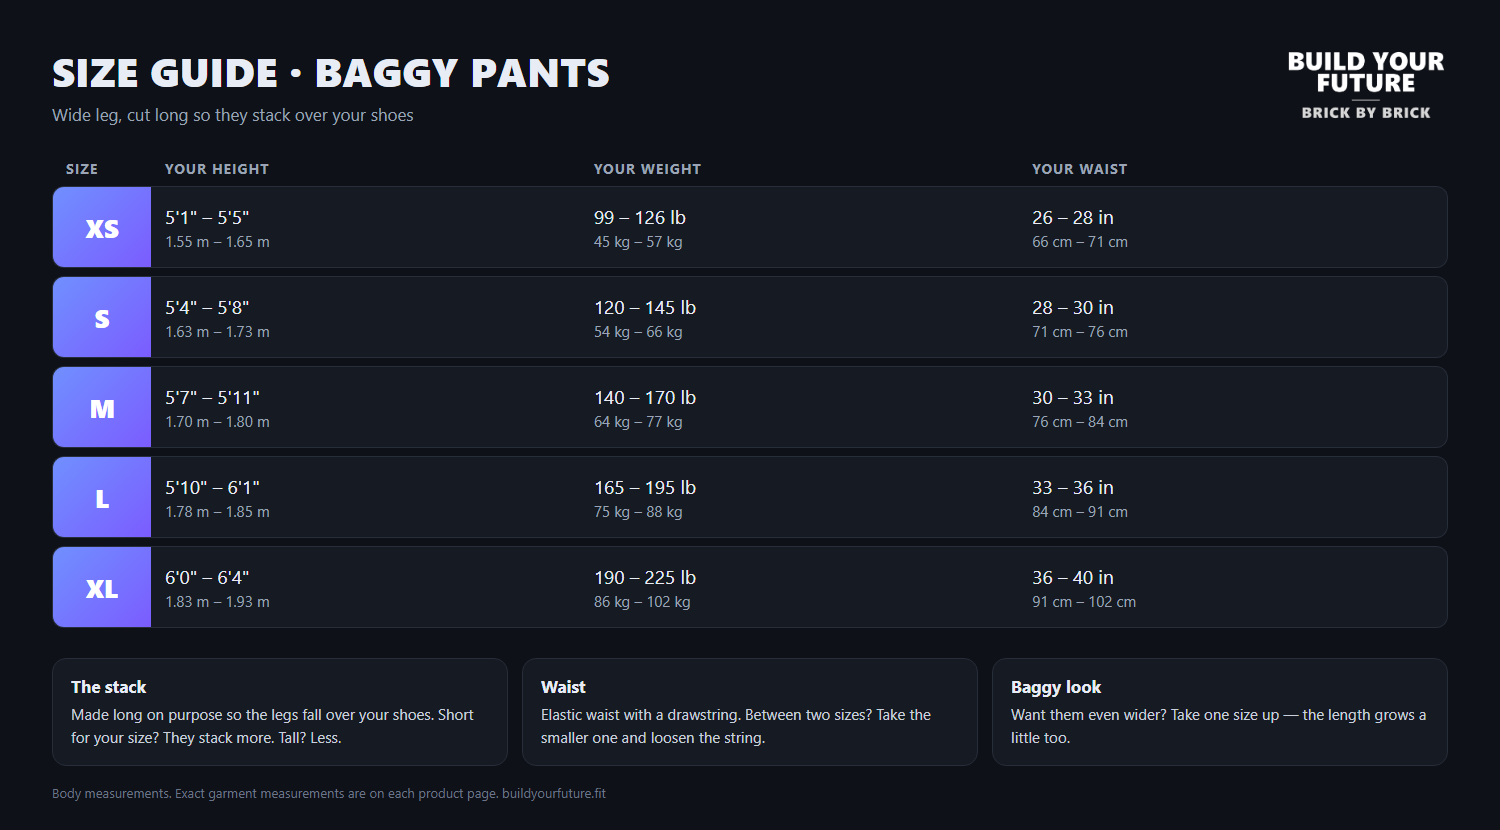
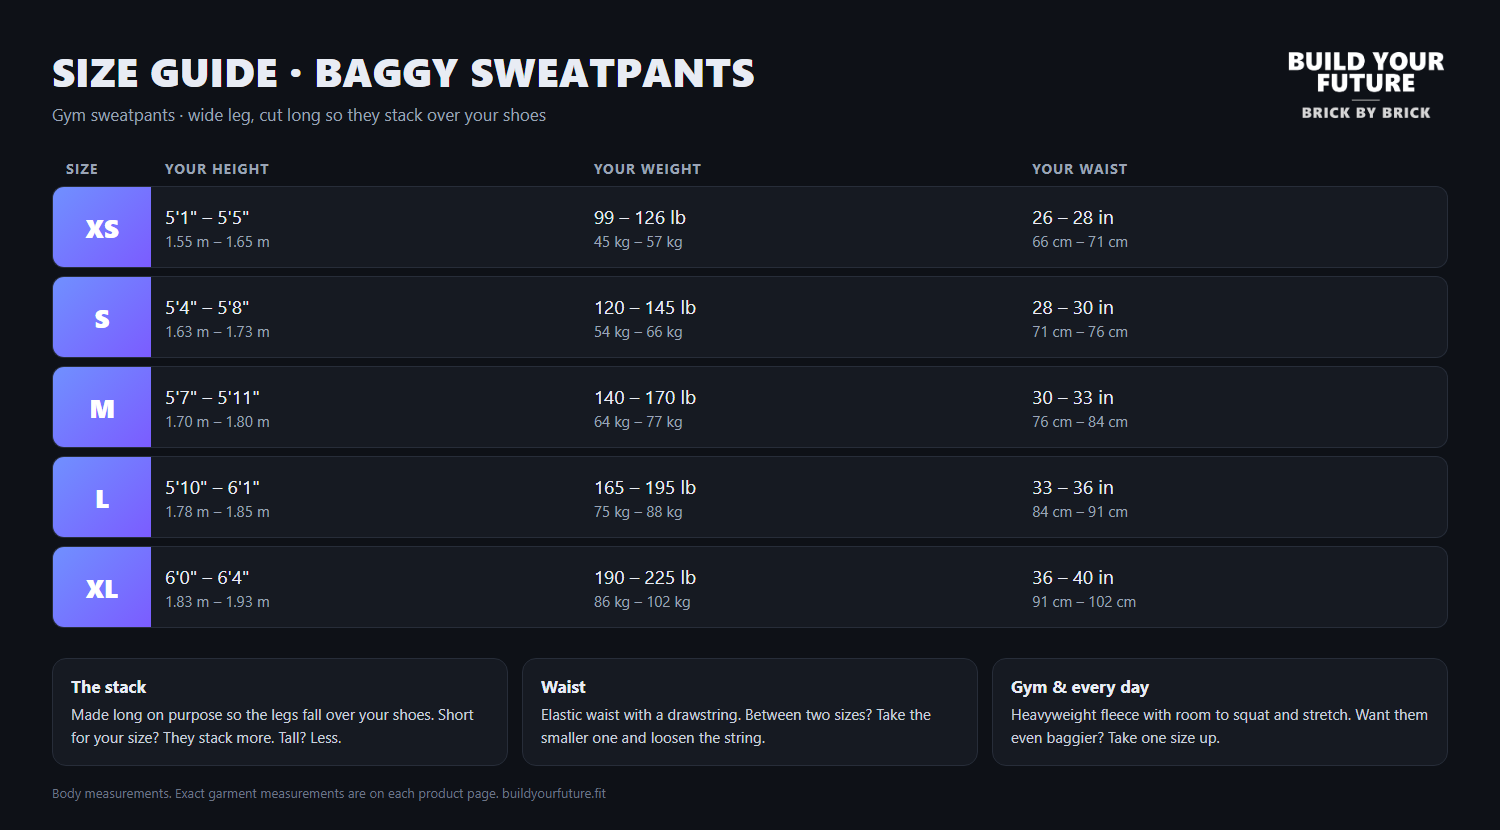
Store: baggy gym sweatpants

Changed region(s): [[0.0307, 0.0602, 0.5213, 0.1506], [0.6747, 0.8133, 0.9507, 0.9036]]

diff --git a/store.html b/store.html
@@ -4,7 +4,7 @@
   <meta charset="utf-8">
   <meta name="viewport" content="width=device-width, initial-scale=1">
   <title>Store · Build Your Future</title>
-  <meta name="description" content="Build Your Future merch: oversized and regular hoodies, heavyweight tees, compression tee and baggy pants. Drop 001, coming soon.">
+  <meta name="description" content="Build Your Future merch: oversized and regular hoodies, heavyweight tees, compression tee and baggy gym sweatpants. Drop 001, coming soon.">
   <meta name="copyright" content="© 2026 Build Your Future. All rights reserved.">
   <meta name="theme-color" content="#0E1117">
   <meta property="og:title" content="Build Your Future · Store">
@@ -115,7 +115,7 @@
         <div>
           <span class="drop">DROP 001 · COMING SOON</span>
           <h1>Wear the work.</h1>
-          <p class="lead">Heavyweight hoodies, tees, a compression tee and baggy pants that stack over your shoes. Clean black, the Build Your Future logo on the chest. Made for people who show up every day.</p>
+          <p class="lead">Heavyweight hoodies, tees, a compression tee and baggy gym sweatpants that stack over your shoes. Clean black, the Build Your Future logo on the chest. Made for people who show up every day.</p>
           <div class="facts">
             <span class="fact">Heavyweight cotton</span>
             <span class="fact">Sizes XS – XL</span>
@@ -165,9 +165,9 @@
             <p class="spec">80% polyester, 20% spandex. 4-way stretch, sweat-wicking, flat seams. Short sleeves.</p>
             <div class="sizes"><span>XS</span><span>S</span><span>M</span><span>L</span><span>XL</span></div>
             <div class="soon">Coming soon</div></div></div>
-          <div class="product"><div class="img"><img src="store/baggy-pants.jpg" alt="Baggy pants"></div><div class="body">
-            <span class="fit">Baggy · wide leg</span><h3>Baggy Pants</h3>
-            <p class="spec">Heavyweight cotton-blend fleece, wide leg, cut long to stack over your shoes. Elastic waist + drawstring.</p>
+          <div class="product"><div class="img"><img src="store/baggy-sweatpants.jpg" alt="Baggy gym sweatpants"></div><div class="body">
+            <span class="fit">Baggy · gym</span><h3>Baggy Sweatpants</h3>
+            <p class="spec">Heavyweight fleece gym sweatpants. Wide leg, elastic waist + drawstring, side pockets, cut long to stack over your shoes.</p>
             <div class="sizes"><span>XS</span><span>S</span><span>M</span><span>L</span><span>XL</span></div>
             <div class="soon">Coming soon</div></div></div>
         </div>
@@ -186,7 +186,7 @@
           <tr><td><b>Bulk Tee</b></td><td>100% ring-spun cotton</td><td>~220 GSM</td><td>Oversized, boxy</td></tr>
           <tr><td><b>Tee</b></td><td>Combed ring-spun cotton</td><td>180 – 210 GSM</td><td>Regular</td></tr>
           <tr><td><b>Compression Tee</b></td><td>80% polyester, 20% spandex</td><td>Stretch, sweat-wicking</td><td>Tight, second skin</td></tr>
-          <tr><td><b>Baggy Pants</b></td><td>Cotton-blend fleece</td><td>Heavyweight</td><td>Wide leg, long (stacks)</td></tr>
+          <tr><td><b>Baggy Sweatpants</b></td><td>Cotton-blend fleece, brushed inside</td><td>Heavyweight, room to squat</td><td>Baggy wide leg, long (stacks), elastic waist</td></tr>
         </table>
       </div>
     </section>
@@ -198,7 +198,7 @@
         <p class="intro">By your height, weight and chest or waist, in feet &amp; inches and metres &amp; cm.</p>
         <div class="guides">
           <img src="store/size-guide-tops.png" alt="Size guide tops: XS 1.55-1.65 m (5'1&quot;-5'5&quot;), S 1.63-1.73 m, M 1.70-1.80 m, L 1.78-1.85 m, XL 1.83-1.93 m">
-          <img src="store/size-guide-pants.png" alt="Size guide baggy pants: waist XS 66-71 cm, S 71-76 cm, M 76-84 cm, L 84-91 cm, XL 91-102 cm">
+          <img src="store/size-guide-pants.png" alt="Size guide baggy sweatpants: waist XS 66-71 cm, S 71-76 cm, M 76-84 cm, L 84-91 cm, XL 91-102 cm">
         </div>
       </div>
     </section>
